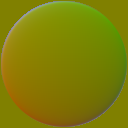
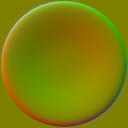
Calibrate liquid glass against supplied references and preserve clear dark-mode transmission

diff --git a/src/components/ui/LiquidGlassEffects.tsx b/src/components/ui/LiquidGlassEffects.tsx
@@ -8,6 +8,7 @@ import beadHorizontalStemMap from './liquid-lens-bead-map-stem-horizontal.png'
 import { observeGlassActivity } from './glassActivity'
 import { nearestLensRatio } from './glassLensGeometry'
 import { createGlassLensFilters } from './glassLensFilters'
+import { glassSceneTone, type GlassSceneTone } from './glassSceneTone'
 import { GLASS_CANDIDATES, glassControlKind, type GlassControlKind } from './glassControlScope'
 
 const maps = {
@@ -30,6 +31,7 @@ export function LiquidGlassEffects() {
     const observed = new Set<HTMLElement>()
     const kinds = new Map<HTMLElement, GlassControlKind>()
     const profiles = new Map<HTMLElement, 'surface' | 'bead' | 'control'>()
+    const sceneTones = new Map<Element, GlassSceneTone>()
     const pending = new Map<HTMLElement, { width: number; height: number }>()
     let frame = 0
     const resize = new ResizeObserver(entries => {
@@ -63,6 +65,8 @@ export function LiquidGlassEffects() {
       element.style.removeProperty('--glass-lens-filter')
       element.style.removeProperty('--glass-lens-active-filter')
       for (const key of ['glassControl', 'glassFace', 'glassPosition', 'glassSearch', 'glassField', 'glassToggle', 'glassSurface', 'glassContent', 'glassProfile']) delete element.dataset[key]
+      delete element.dataset.glassScene
+      if (element.matches('.liquid-tabs__lens')) delete element.parentElement?.dataset.glassScene
     }
     const forget = (element: HTMLElement) => {
       resize.unobserve(element); pending.delete(element); observed.delete(element)
@@ -70,6 +74,13 @@ export function LiquidGlassEffects() {
     }
     const reconcile = (element: HTMLElement) => {
       const kind = glassControlKind(element)
+      const updateSceneTone = () => {
+        if (kind !== 'skip' && kind !== 'content') {
+          const tone = glassSceneTone(element, sceneTones)
+          element.dataset.glassScene = tone
+          if (element.matches('.liquid-tabs__lens') && element.parentElement) element.parentElement.dataset.glassScene = tone
+        }
+      }
       const profile = kind === 'surface' || kind === 'field' || kind === 'toggle' || element.matches('.theme-switch,.liquid-switch')
         ? 'surface'
         : element.matches('.theme-switch__thumb,.liquid-switch__thumb,[data-glass-profile="bead"]')
@@ -77,10 +88,11 @@ export function LiquidGlassEffects() {
         : element.matches('[role="switch"]') && !element.matches('.theme-switch,.liquid-switch')
         ? 'bead'
         : 'control'
-      if (kinds.get(element) === kind && profiles.get(element) === profile) return
+      if (kinds.get(element) === kind && profiles.get(element) === profile) { updateSceneTone(); return }
       if (observed.has(element)) forget(element)
       else { kinds.delete(element); profiles.delete(element); clearMarkers(element) }
       if (kind === 'skip') return
+      updateSceneTone()
       kinds.set(element, kind)
       profiles.set(element, profile)
       if (kind === 'content') { element.dataset.glassContent = ''; return }
@@ -107,9 +119,14 @@ export function LiquidGlassEffects() {
     register(document.body)
     const stopActivity = observeGlassActivity(document)
     const mutations = new MutationObserver(records => {
+      sceneTones.clear()
       const removals = new Set<Element>()
       for (const record of records) {
-        if (record.target === document.documentElement) { bank.setTheme(document.documentElement.dataset.theme === 'dark'); continue }
+        if (record.target === document.documentElement) {
+          bank.setTheme(document.documentElement.dataset.theme === 'dark')
+          register(document.body)
+          continue
+        }
         if (record.type === 'attributes' && record.target instanceof Element) register(record.target)
         if (record.type === 'childList') {
           record.addedNodes.forEach(node => { if (node instanceof Element) register(node) })

diff --git a/src/components/ui/glassLensFilters.ts b/src/components/ui/glassLensFilters.ts
@@ -8,7 +8,7 @@ export function createGlassLensFilters(defs: SVGDefsElement, maps: { capsule: Le
   const filters = new Map<string, { node: SVGFilterElement; users: number; illumination?: SVGFEColorMatrixElement; illuminationCap?: SVGFEFuncAElement }>()
   let dark = document.documentElement.dataset.theme === 'dark'
   const illuminationValues = () => dark
-    ? '0 0 0 0 .06 0 0 0 0 .1 0 0 0 0 .12 .19134 .64368 .06498 0 .06'
+    ? '.7874 -.7152 -.0722 0 .86 -.2126 .2848 -.0722 0 .86 -.2126 -.7152 .9278 0 .86 0 0 0 0 .18'
     : [
       // Neutral scenes lift towards a light reflection (.92). Subtracting luminance
       // preserves local chroma and ensures frosted glass stays bright without dark mud.
@@ -61,12 +61,10 @@ export function createGlassLensFilters(defs: SVGDefsElement, maps: { capsule: Le
       .forEach(([key, value]) => normals.setAttribute(key, value))
     const warp = document.createElementNS(svg, 'feDisplacementMap')
     // Equal pixel units on X and Y avoid aspect-dependent vertical stretching.
-    // For text and control variants, restrict distortion to the 2-3px outer meniscus edge.
-    const isControl = variant === 'control' || variant === 'control-active' || variant === 'tab-rest' || variant === 'tab-active'
+    // The map confines bending to its shoulder; scale follows the photographed
+    // geometry instead of a fixed 3px cap that flattened large controls.
     const tab = variant === 'tab-rest' || variant === 'tab-active'
-    const scale = tab ? Math.min(18, height * (variant === 'tab-active' ? .3 : .23)) : isControl
-      ? Math.min(3, Math.max(1, GLASS_LENS_DEPTHS[variant] * Math.min(width, height)))
-      : GLASS_LENS_DEPTHS[variant] * Math.min(width, height)
+    const scale = GLASS_LENS_DEPTHS[variant] * Math.min(width, height)
     Object.entries({ in: 'SourceGraphic', in2: 'lens-normal', scale: String(scale),
       xChannelSelector: 'R', yChannelSelector: 'G', result: 'refracted-scene' }).forEach(([key, value]) => warp.setAttribute(key, value))
     filter.append(normals)
@@ -99,8 +97,8 @@ export function createGlassLensFilters(defs: SVGDefsElement, maps: { capsule: Le
     let illuminationCap: SVGFEFuncAElement | undefined
     if (glassLensHasSceneReflection(variant)) {
       // Mix a broad local scene color into bright text backdrops. This softens
-      // contrast without painting every scene white; dark mode protects ink
-      // with a dark tint instead. The foreground is never input.
+      // contrast without painting every scene white. Dark mode adds only a
+      // faint reflection, never an opaque dark fill. Foreground is never input.
       const light = document.createElementNS(svg, 'feGaussianBlur')
       Object.entries({ in: 'SourceGraphic', stdDeviation: String(Math.min(20, height * .3)), edgeMode: 'duplicate', result: 'scene-light' })
         .forEach(([key, value]) => light.setAttribute(key, value))

diff --git a/src/components/ui/LiquidSwitch.css b/src/components/ui/LiquidSwitch.css
@@ -1,5 +1,6 @@
-/* Universal LiquidSwitch with 3D translucent convex droplet thumb */
+/* Universal LiquidSwitch with a clear raised lip over the state track */
 .liquid-switch {
+  --control-glass-fill: transparent;
   position: relative;
   display: inline-flex;
   align-items: center;
@@ -24,6 +25,8 @@
     box-shadow 220ms ease;
   user-select: none;
 }
+.liquid-switch__track { position: absolute; inset: 5px 4px; z-index: 0; border-radius: 999px; background: #a7b2ae; pointer-events: none; transition: background-color 220ms ease; }
+.liquid-switch--checked .liquid-switch__track { background: #34c759; }
 
 .liquid-switch--checked {
   background-color: rgb(52 199 89 / 0.82);
@@ -59,17 +62,17 @@
   opacity: 0.42;
 }
 
-/* 3D translucent convex droplet thumb:
+/* Clear raised-lip thumb:
  * Translucent liquid glass material that lets track colors show through and magnify,
  * with specular highlight along the upper rim and ambient occlusion shadow underneath.
  */
 .liquid-switch__thumb {
   position: absolute;
-  top: 3px;
-  left: 3px;
-  width: 26px;
-  height: 26px;
-  border-radius: 50%;
+  top: 0;
+  left: 0;
+  width: 44px;
+  height: 32px;
+  border-radius: 999px;
   z-index: 1;
   background: radial-gradient(circle at 35% 30%, rgba(255, 255, 255, 0.55) 0%, rgba(255, 255, 255, 0.16) 48%, rgba(255, 255, 255, 0.02) 100%);
   border: 1px solid rgba(255, 255, 255, 0.72);
@@ -85,7 +88,7 @@
 }
 
 .liquid-switch--checked .liquid-switch__thumb {
-  transform: translateX(26px);
+  transform: translateX(14px);
   background: radial-gradient(circle at 35% 30%, rgba(255, 255, 255, 0.6) 0%, rgba(255, 255, 255, 0.18) 48%, rgba(255, 255, 255, 0.03) 100%);
   box-shadow:
     inset 0 2px 2px -1px #ffffff,

diff --git a/src/components/ui/glassSceneTone.ts b/src/components/ui/glassSceneTone.ts
@@ -1,0 +1,28 @@
+export type GlassSceneTone = 'light' | 'dark' | 'mixed'
+
+function colorLightness(value: string): number | null {
+  if (!/^(rgba?\(|color\(srgb )/.test(value)) return null
+  const parts = value.match(/[\d.]+/g)?.map(Number)
+  if (!parts || parts.length < 3 || (parts[3] ?? 1) < .75) return null
+  const unit = value.startsWith('color(srgb ') ? 1 : 255
+  return (.2126 * parts[0] + .7152 * parts[1] + .0722 * parts[2]) / unit
+}
+
+/** Estimate only known CSS paint. Photographs stay mixed: never guess their ink. */
+export function glassSceneTone(element: HTMLElement, cache: Map<Element, GlassSceneTone>): GlassSceneTone {
+  const parent = element.parentElement
+  if (!parent) return 'mixed'
+  const cached = cache.get(parent)
+  if (cached) return cached
+  const style = getComputedStyle(parent)
+  let tone: GlassSceneTone
+  if (style.backgroundImage.includes('url(')) tone = 'mixed'
+  else {
+    const stops = [...style.backgroundImage.matchAll(/(?:rgba?|color)\([^)]*\)/g)]
+      .map(match => colorLightness(match[0])).filter((value): value is number => value !== null)
+    const lightness = stops.length ? stops.reduce((sum, value) => sum + value, 0) / stops.length : colorLightness(style.backgroundColor)
+    tone = lightness === null ? glassSceneTone(parent, cache) : lightness > .52 ? 'light' : 'dark'
+  }
+  cache.set(parent, tone)
+  return tone
+}

diff --git a/src/components/theme/dark-theme.css b/src/components/theme/dark-theme.css
@@ -150,6 +150,7 @@ html[data-theme='dark'] body .app-toast .app-toast__close { color: inherit; back
 html[data-theme='dark'] #root .hj-action__badge { background: #9e3724; color: #ffffff; }
 html[data-theme='dark'] #root .hj-notify__tab-count { background: #214c3d; color: #b7edce; }
 html[data-theme='dark'] #root .food-rail__address:disabled { opacity: 1; }
+html[data-theme='dark'] #root .food-rail__address { background: var(--surface-input); border-color: var(--border); }
 html[data-theme='dark'] #root .food-rail__address strong { color: var(--text-heading); }
 html[data-theme='dark'] #root .food-rail__address small { color: var(--text-secondary); }
 html[data-theme='dark'] #root .natural-rental-search__close { color: var(--text-secondary); }
@@ -159,4 +160,5 @@ html[data-theme='dark'] #root .guest-map__field span { color: var(--text-seconda
 html[data-theme='dark'] #root .guest-map__field .choice-picker__value { color: var(--text-primary); }
 html[data-theme='dark'] #root .guest-map__map-fallback { background: var(--surface-input); color: var(--text-secondary); }
 html[data-theme='dark'] #root .guest-preview__photo > span { color: var(--text-secondary); }
+html[data-theme='dark'] #root .guest-preview__photo > .guest-preview__source-badge { color: #23483f; }
 html[data-theme='dark'] #root .guest-preview__photo { background: var(--surface-input); }

diff --git a/src/glass-controls.css b/src/glass-controls.css
@@ -2,6 +2,16 @@
    enforced by LiquidGlassEffects before an element receives these markers. */
 /* Clear convex material: the scene bends behind the surface; ink stays above it. */
 :root { --control-glass-fill: var(--glass-clear-fill); --control-glass-edge: var(--glass-clear-edge); }
+/* Clear glass transmits its scene in either theme. Ink follows known CSS paint,
+   rather than making every dark-mode face an opaque black backing. */
+:is(html:root #root,html:root body) [data-glass-scene='light'] {
+  --glass-ink: #18343e; --text-heading: #18343e; --text-secondary: #485d65;
+  --tabs-ink: #14352e; --tabs-muted-ink: #385953;
+}
+:is(html:root #root,html:root body) [data-glass-scene='dark'] {
+  --glass-ink: #f0f7fa; --text-heading: #f0f7fa; --text-secondary: #d8e5eb;
+  --tabs-ink: #f0fdf9; --tabs-muted-ink: #d1e7df;
+}
 :is(html:root #root,html:root body) :is([data-glass-content], [data-glass-exclude], [data-glass-exclude] button, .food-rail__checkout, .food-rail__locate, .food-qty__btn, .food-rail__clear, .food-rail__remove) {
   -webkit-backdrop-filter: none !important; backdrop-filter: none !important; filter: none;
   background-image: none; box-shadow: none;

diff --git a/src/components/ui/LiquidSwitch.tsx b/src/components/ui/LiquidSwitch.tsx
@@ -16,7 +16,7 @@ export type LiquidSwitchProps = {
 
 /**
  * LiquidSwitch: A universal toggle switch featuring a 3D translucent
- * convex droplet thumb with specular highlights, ambient occlusion shadow,
+ * raised glass lip with specular highlights, ambient occlusion shadow,
  * and backdrop-filter refraction bending the track underneath.
  */
 export function LiquidSwitch({
@@ -63,6 +63,7 @@ export function LiquidSwitch({
       onClick={handleClick}
       onKeyDown={handleKeyDown}
     >
+      <span className="liquid-switch__track" aria-hidden="true" />
       {offContent && (
         <span
           className={`liquid-switch__content liquid-switch__content--off${

diff --git a/src/components/ui/glassLensGeometry.ts b/src/components/ui/glassLensGeometry.ts
@@ -12,8 +12,8 @@ export function nearestLensRatio(width: number, height: number) {
 export const GLASS_LENS_DEPTHS: Record<GlassLensVariant, number> = {
   surface: .06, 'surface-active': .08,
   bead: .6, 'bead-active': .65,
-  control: .06, 'tab-rest': .06,
-  'control-active': .08, 'tab-active': .08,
+  control: .75, 'tab-rest': .75,
+  'control-active': .8, 'tab-active': .8,
 }
 
 /** Search/action faces soften high-contrast scenery. A tab face crossing its

diff --git a/docs/design/liquid-glass-reference-2026-11-02.md b/docs/design/liquid-glass-reference-2026-11-02.md
@@ -1,0 +1,42 @@
+# Liquid Glass — đối chiếu ảnh người dùng, 02/11/2026
+
+## Mẫu và tiêu chí
+
+Nguồn chuẩn là sáu ảnh trong `C:\Users\duong.THANHDUY\Downloads\liquid glass`, không phải một ảnh kính bất kỳ trên mạng. Không đưa ảnh cá nhân này vào tài nguyên công khai của ứng dụng.
+
+- `1792475131200…2719911d…jpg`: công tắc trong, mép nhô và phần xanh bị thắt qua thấu kính.
+- `1792475131209…2b3f06ee…jpg`: chữ nền bị uốn qua ô tìm kiếm và nút tròn; chữ/icon của nút không bị uốn.
+- `1792475131223…d6154bca…jpg`: thanh tìm kiếm trên ranh giới ảnh và văn bản.
+- `1792475131234…8472ed25…jpg`: cùng thanh khi nền chuyển sang nội dung sáng.
+- `1792475131242…8be9a666…jpg`: bảo toàn màu xanh/hồng/vàng khi nền đi qua kính.
+- `1792475131250…ea78dd63…jpg`: uốn các dòng văn bản ở mép trên và dưới trong cảnh cuộn.
+
+Bốn phép dựng đối chiếu trực tiếp gồm công tắc, chữ lớn, nhiều dòng và dải màu. Hai ảnh toàn màn hình còn lại cung cấp bối cảnh bố cục và thay đổi nền. Đây là kiểm tra hình học/vật liệu; không lấy toàn bộ ảnh iPhone làm ảnh nền giả cho nút Homeji.
+
+## Nghiên cứu và lựa chọn
+
+[Apple Materials](https://developer.apple.com/design/human-interface-guidelines/materials) phân biệt vật liệu trong và vật liệu phủ màu. [Liquid Glass overview](https://developer.apple.com/documentation/technologyoverviews/liquid-glass) mô tả vật liệu động phản ứng với nội dung xung quanh. Trên web, [MDN backdrop-filter](https://developer.mozilla.org/en-US/docs/Web/CSS/Reference/Properties/backdrop-filter) xác định hiệu ứng lấy các pixel phía sau, bị giới hạn bởi backdrop root.
+
+Homeji dùng bộ lọc SVG trên backdrop để uốn nền DOM thật; phần chữ giữ ở lớp không lọc. Các đầu bo được ghép từ bản đồ pháp tuyến cùng kích thước vật lý, không kéo giãn toàn bộ texture khi nút dài ra. Tab giữ ba kênh lấy mẫu R/G/B cho tán sắc. Canvas WebGL hiện có chỉ bổ sung phản sáng, không được mô tả thành renderer quang học của Apple hay bộ chụp toàn bộ DOM.
+
+## Nguyên nhân và thay đổi
+
+1. Depth `.06` cùng trần khúc xạ 3px làm nền gần như phẳng. Kiểm tra trước sửa cho độ lệch vai kính `0,0px`. Khôi phục độ sâu theo chiều cao và hình học mép; tâm giữ ổn định.
+2. Công tắc bị dựng như vòm phóng đại, làm mảng xanh phình thành khối. Thay bằng mép nhô quanh vùng lõm nông, dựng lại ba texture. Công tắc dùng thật có lớp track riêng để CSS kính chung không xóa màu bật/tắt.
+3. Dark mode dùng lớp phản chiếu tối có alpha lớn, che màu nền. Đổi sang phản chiếu sáng nhẹ, không phủ lớp đen lên toàn mặt. Trước sửa, cảnh sáng trên mobile dark mode giảm luminance vùng đo xuống khoảng 120/255; phép đo này hiện vượt ngưỡng 170.
+4. Màu chữ theo nền CSS đã biết thay vì chỉ theo theme. Nền sáng có chữ tối; nền tối có chữ sáng. Với ảnh chụp không biết nội dung, giữ trạng thái mixed, không suy đoán màu pixel ảnh. Ước lượng nền dùng cache trong từng lượt cập nhật; cập nhật lại khi theme/class đổi, không thêm vòng lặp đo/vẽ liên tục.
+5. Rà toàn trang phát hiện chữ sáng trên ô vị trí nền trắng của Chợ đồ ăn và nhãn Cho thuê ở trang khách; chỉnh surface hoặc màu chữ theo nền. Các khu vực nội dung này vẫn nằm ngoài khúc xạ.
+
+## Đối chiếu và kiểm tra
+
+- `glass-reference-calibration.e2e.mjs`: vai kính `+7/-8px`, đầu bo cùng chiều cao sai số trung bình `0,024` mức màu; phần xanh công tắc IoU `0,940`, RGB MAE `10,405`; phân bố chữ nền sai khác `0,079`; màu xanh nền truyền qua `[148,200,237]`. Các con số chỉ mô tả vùng đo đã định nghĩa, không phải tuyên bố toàn ảnh giống 94%.
+- Ảnh trước/sau cùng phép dựng: `output/verification/glass-reference-calibration/before-comparison.png`, `after-comparison.png`. Chi tiết các vùng đo ở `reference-agreement.json` và `geometry-result.json` cùng thư mục.
+- `glass-reference-dark.e2e.mjs`: kiểm tra pixel nút, tìm kiếm, tab và thumb trên nền sáng, dải màu và nền đêm; 390/1180px; kiểm tra màu chữ, màu trạng thái xanh và off-state. Cố ý phủ đen để xác nhận phép đo bắt được đúng lỗi.
+- `glass-reference-optics.e2e.mjs`: bỏ displacement phải thay pixel nền; phần nét chữ giữ nguyên; cố ý blur chữ phải bị phát hiện; nhấp, phím mũi tên và forced-colors qua.
+- `glass-project-rollout.e2e.mjs`: nhập/xác thực/FormData, checkbox, radio, disabled, ngoại lệ động và picker native qua; không làm kính trên dòng nội dung.
+- `wallet-glass-readability.e2e.mjs`: nút giao dịch tương phản ít nhất 4,5:1; nhãn không bị lọc; tab vẫn hoạt động trong light/dark, desktop/mobile.
+- `glass-game.e2e.mjs`: WebGL không vẽ liên tục khi nghỉ; mất context vẫn điều hướng; mobile DPR3 và dark desktop qua. Đây là máy tính mô phỏng viewport, không phải phép đo GPU trên điện thoại vật lý.
+- `glass-route-coverage.e2e.mjs`: 23 route render bằng API fixture cho mỗi theme; nội dung loại trừ, trường nhập và portal giữ đúng quy tắc. Không xem đây là xác nhận giao dịch thật.
+- Frontend 471 kiểm tra qua; build production và ESLint các module thay đổi qua. `dark-project-readability.e2e.mjs` rà 73 view ở 1440/390px, không có vấn đề tương phản bị bộ kiểm tra phát hiện và không có runtime error sau khi sửa các mặt nền nêu trên. Đây là kiểm tra có giới hạn của bộ đo, không phải chứng nhận toàn bộ WCAG.
+
+Phải xác nhận build, bundle live và kiểm tra trình duyệt sau deploy trước khi ghi nhận phát hành. Chromium/Edge là môi trường kiểm tra trực tiếp; không tuyên bố pixel-identical với renderer iOS hoặc đã kiểm tra Safari khi chưa có thiết bị đó.
